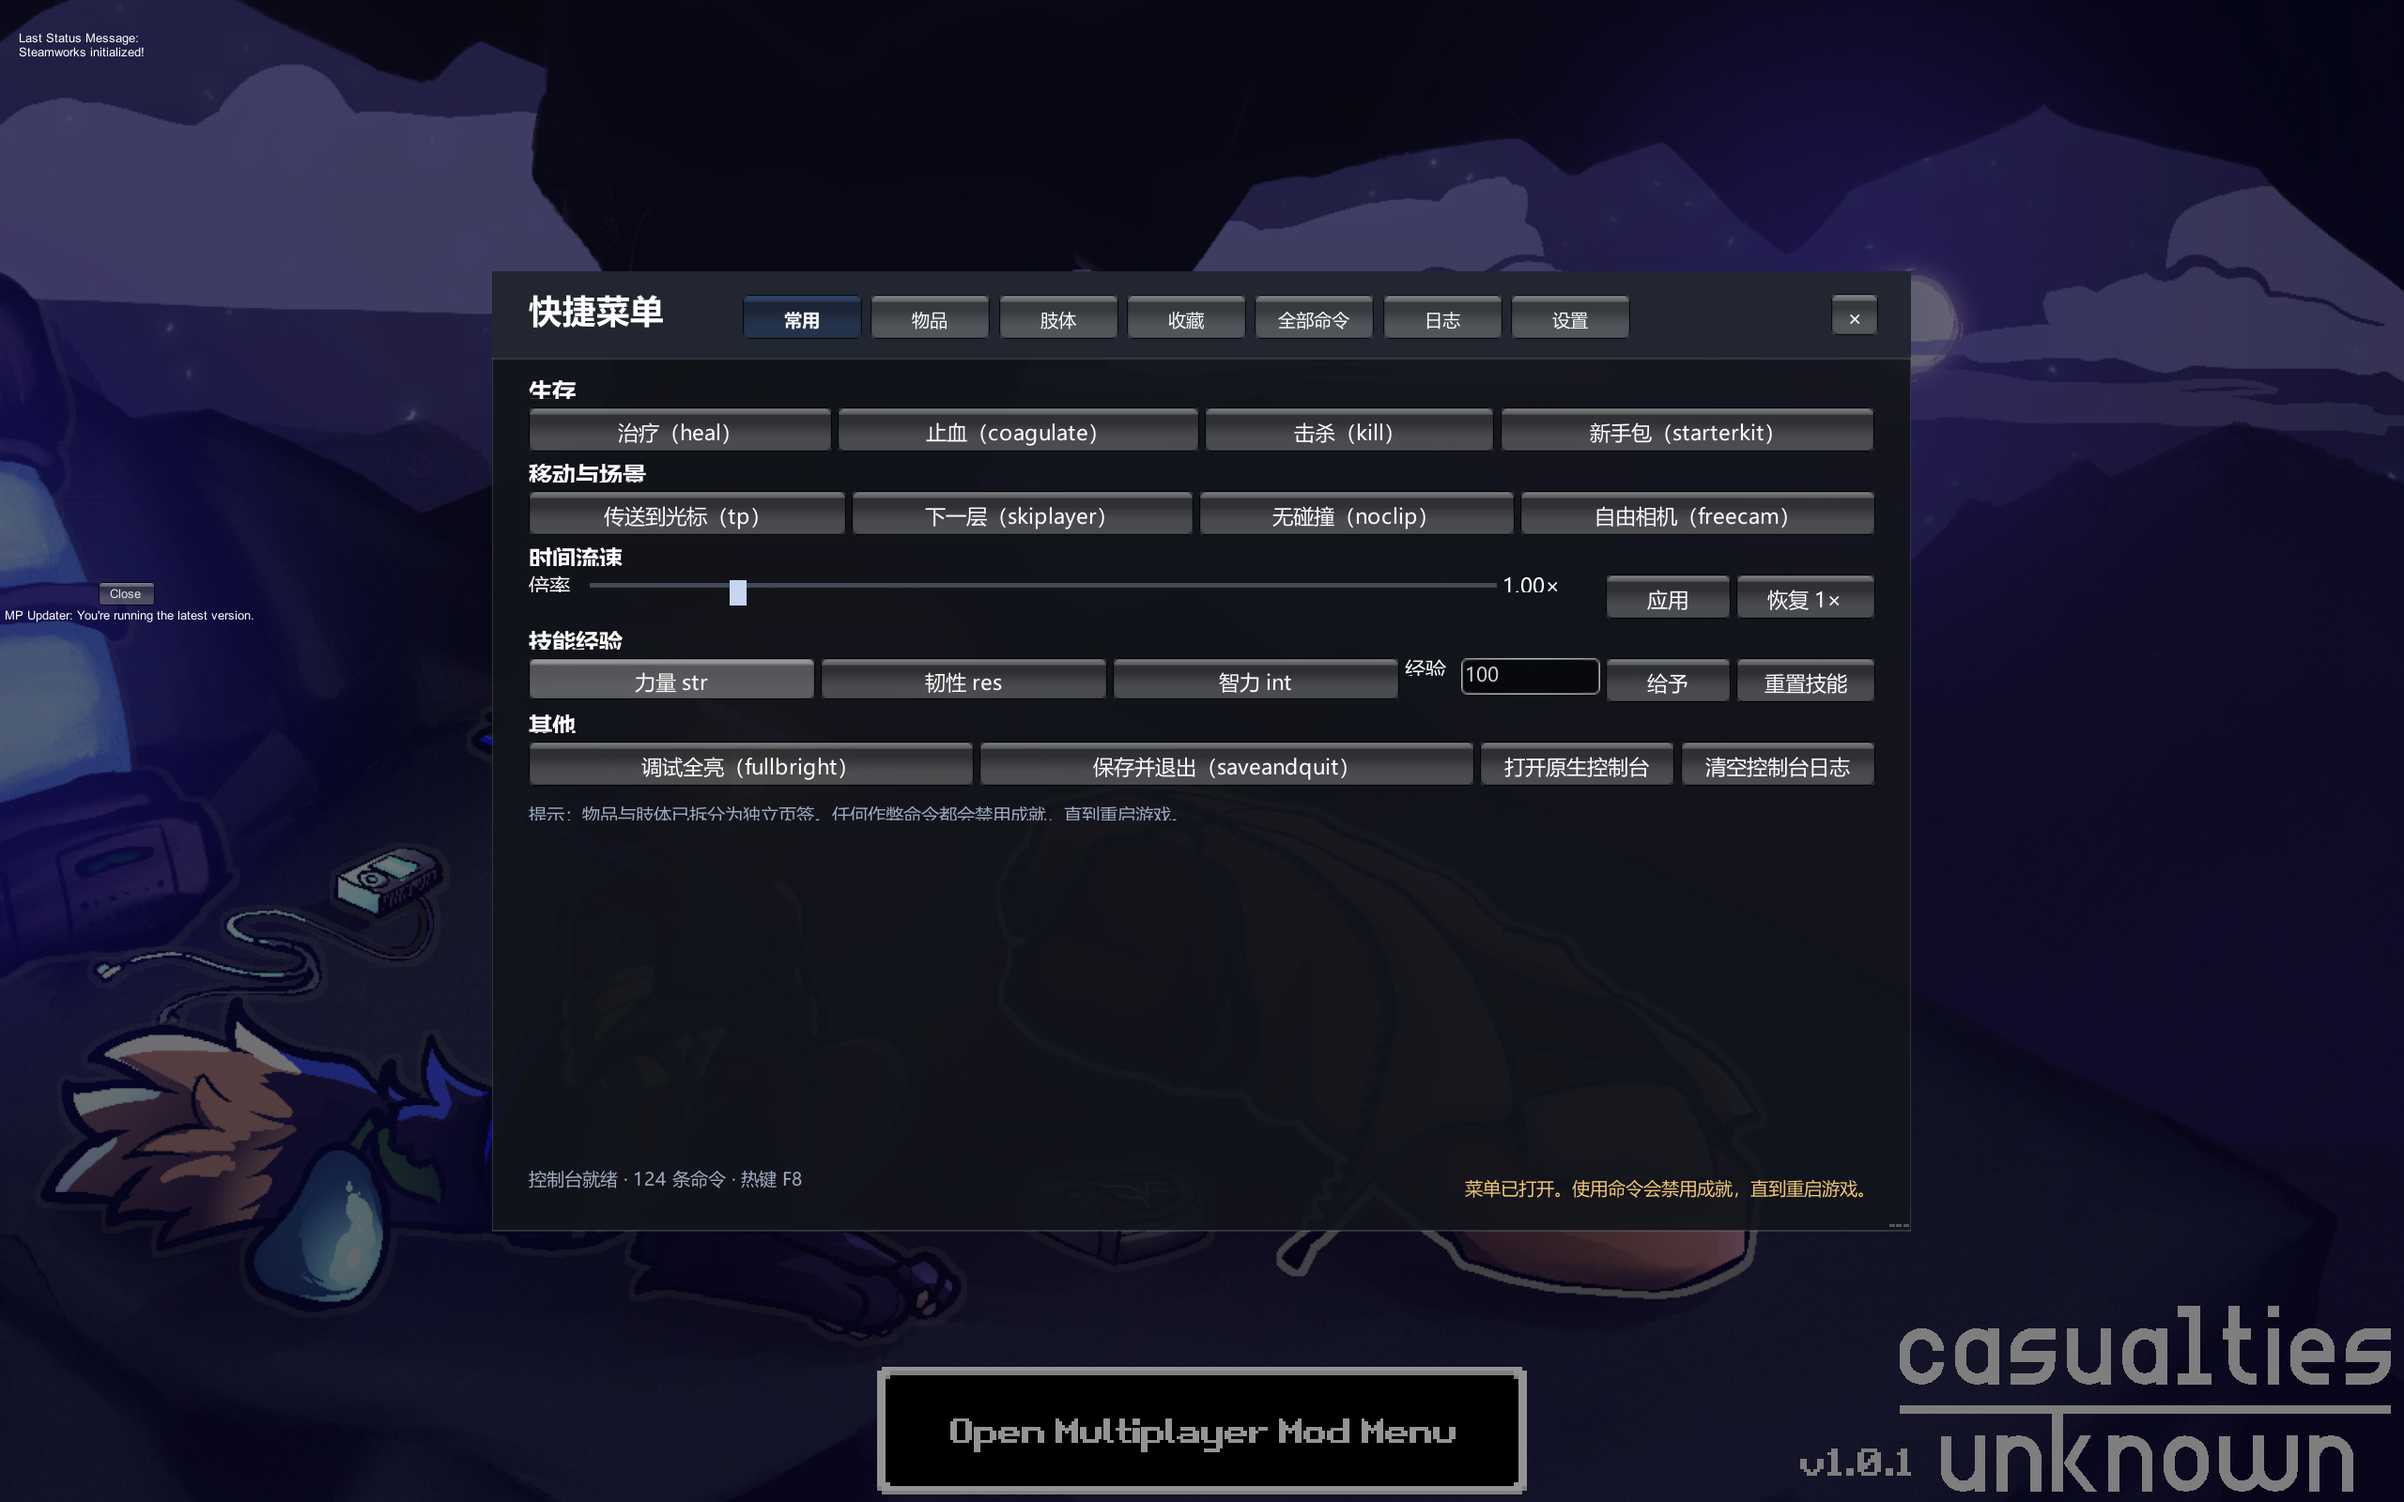
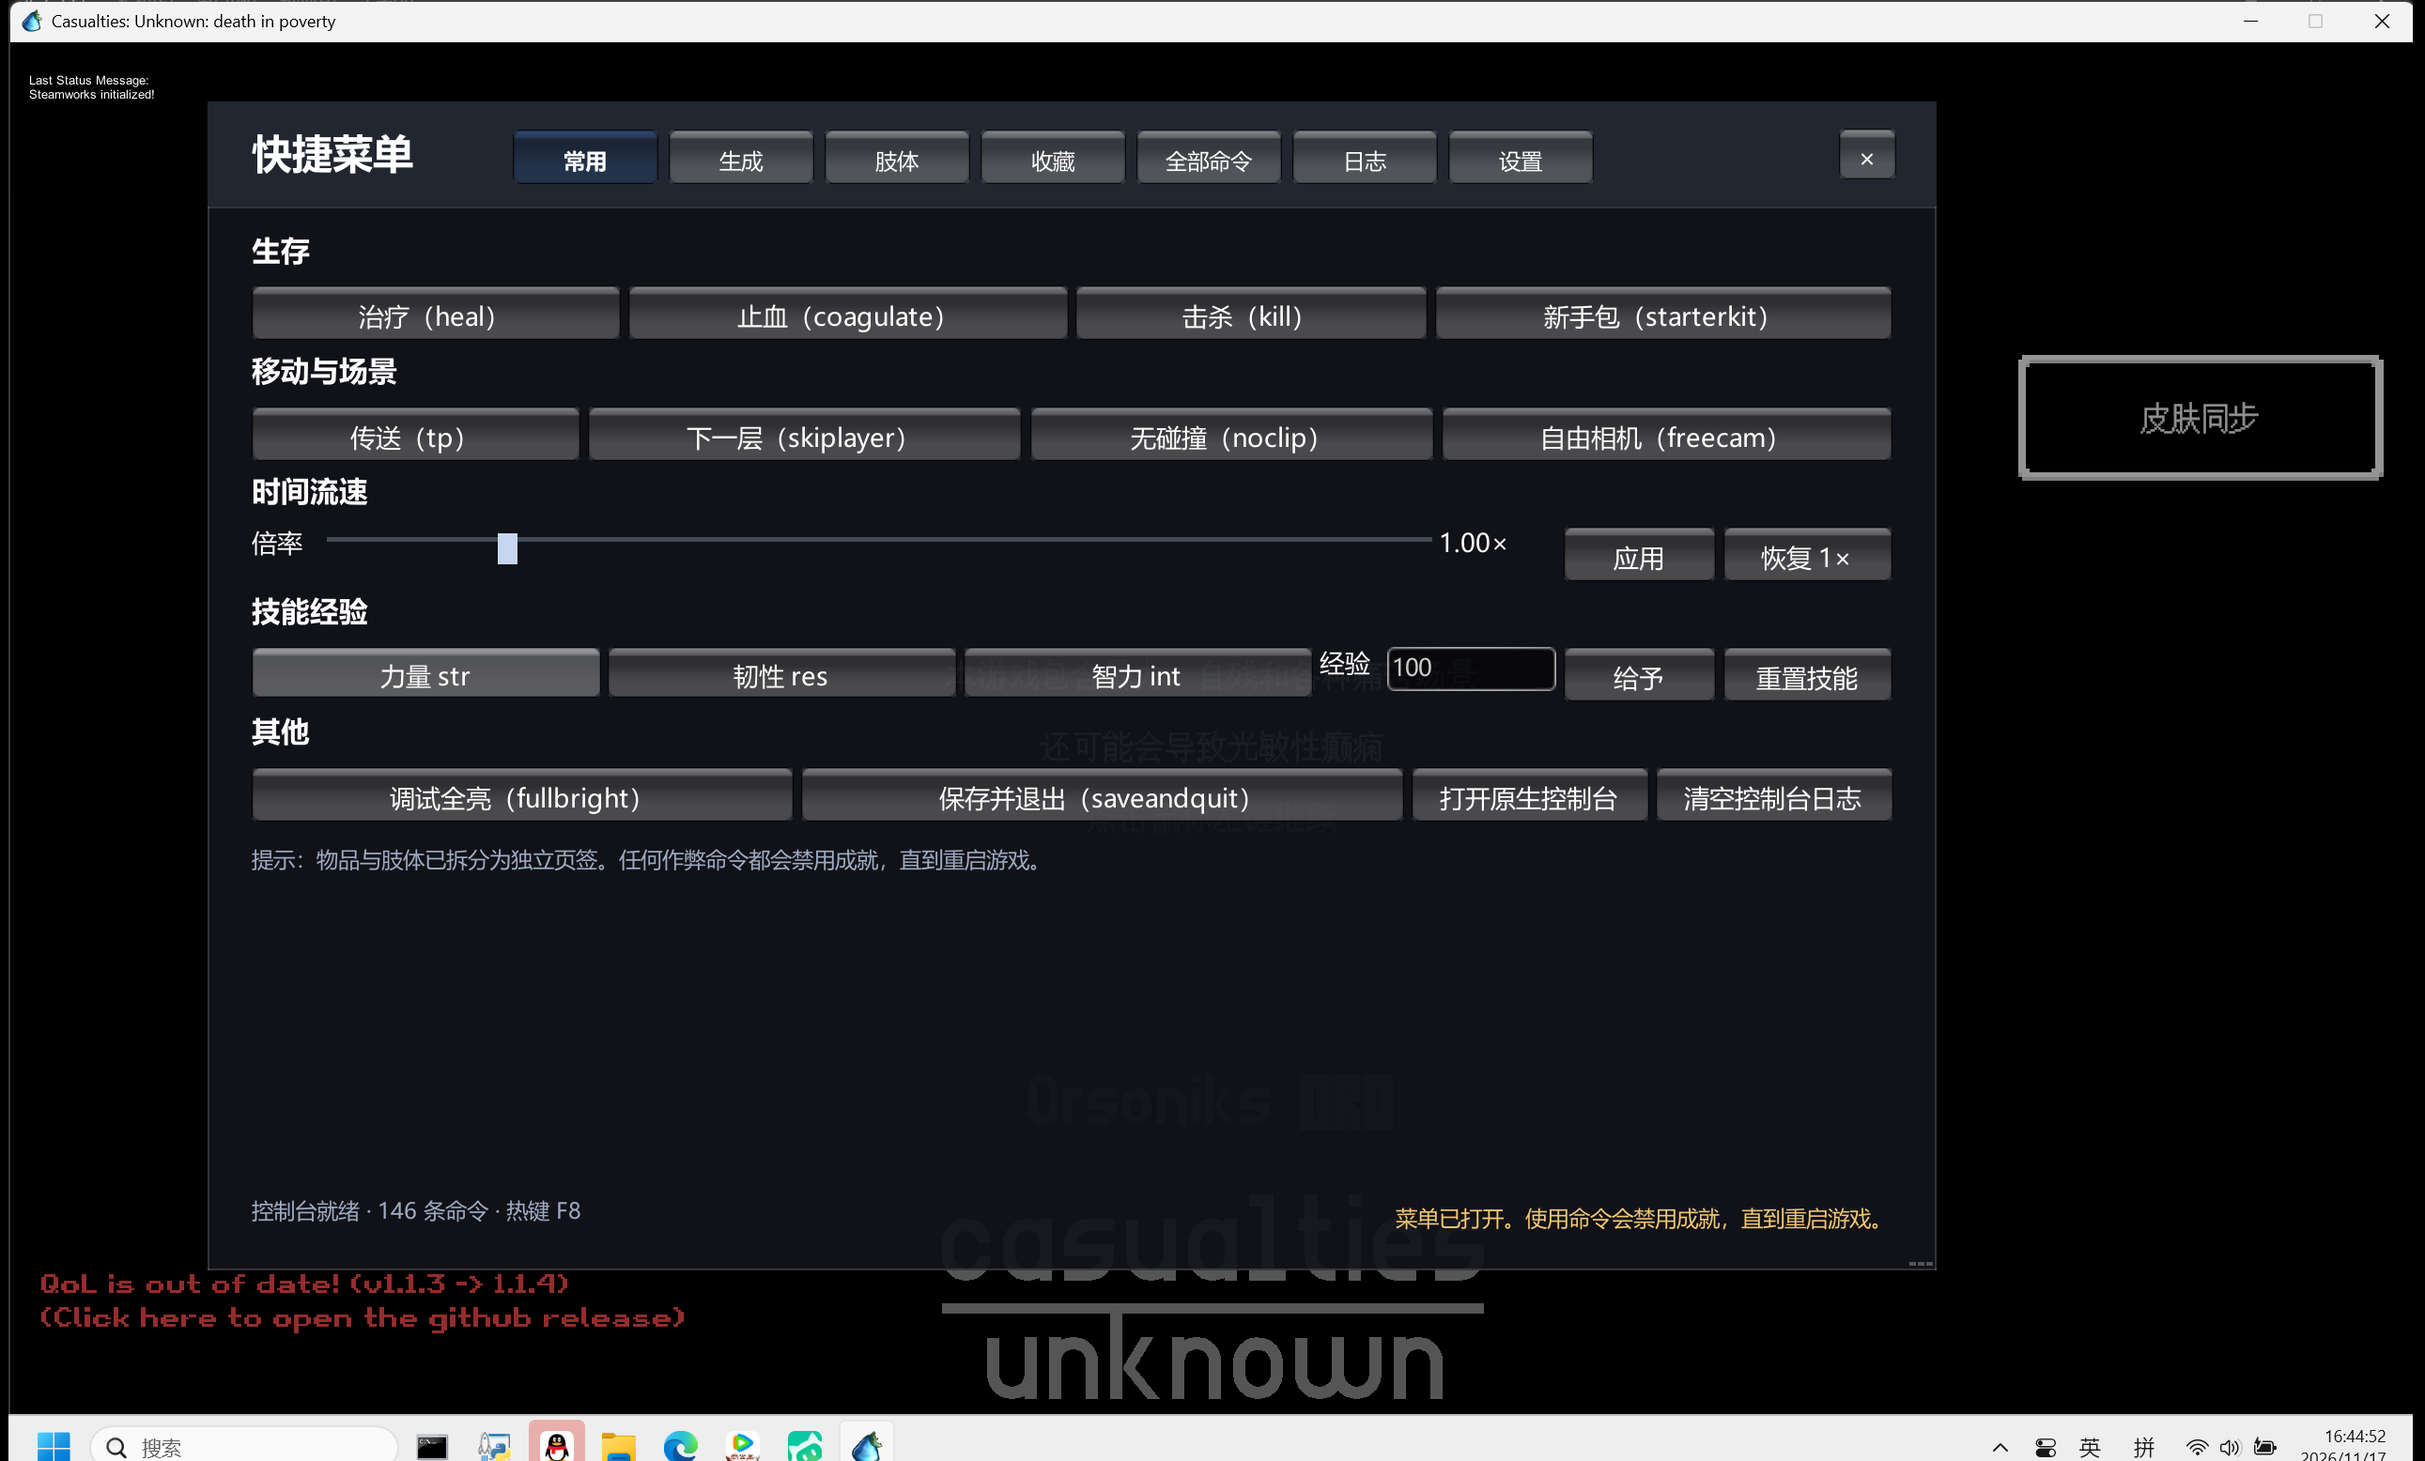
docs: refresh screenshots for the current build
- 02-items -> 02-spawn, matching the renamed tab and its six kinds
- 01 and 04 retaken with the label clipping fix and version 1.1.5
- drop the stray debug captures that slipped into the repo

diff --git a/README.en.md b/README.en.md
@@ -28,7 +28,7 @@ The command list is read from `ConsoleScript.Commands` at runtime, so commands a
 
 ## Screenshots
 
-![Items tab](docs/02-items.png)
+![Spawn tab](docs/02-spawn.png)
 
 Item icons come from each prefab's `SpriteRenderer`; names follow the game's language setting (the game ships English and Simplified Chinese).
 

diff --git a/README.md b/README.md
@@ -28,7 +28,7 @@
 
 ## 界面
 
-![物品页](docs/02-items.png)
+![生成页](docs/02-spawn.png)
 
 物品图标取自游戏预制体的 `SpriteRenderer`，名称跟随游戏内语言设置（内置简体中文与英文）。
 
